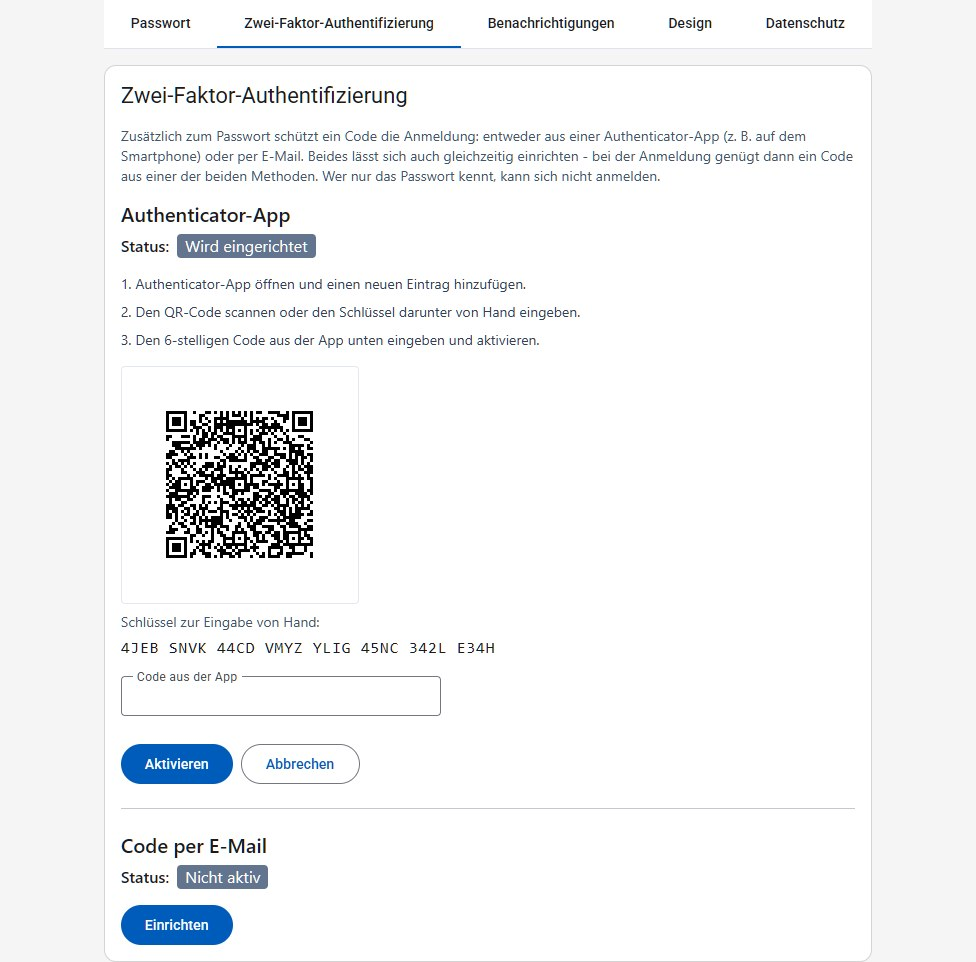
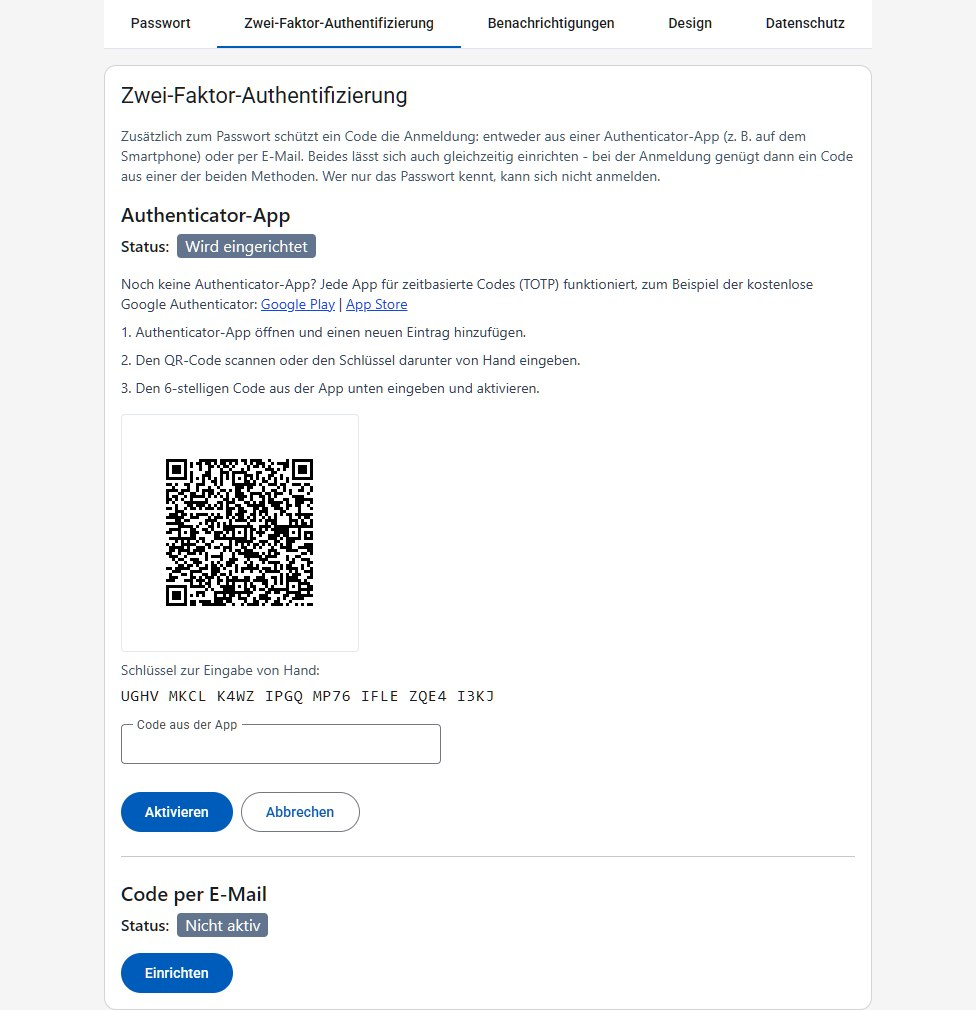
feat(user): link the app stores on the authenticator setup
The setup view of the authenticator app links to Google Authenticator in Google Play and the App Store, and the user guide says so.

Claude-Session: https://claude.ai/code/session_016F6B3dLqo2jphPou1zQNKw

diff --git a/frontend/src/main/webapp/src/app/modules/user/components/user-mfa/user-mfa.component.html b/frontend/src/main/webapp/src/app/modules/user/components/user-mfa/user-mfa.component.html
@@ -41,6 +41,20 @@
           <span testid="mfaTotpStatus" class="px-2 rounded text-white bg-[var(--tafel-severity-neutral)]">Wird eingerichtet</span>
         </div>
 
+        <p class="text-sm text-slate-700 mb-2" testid="mfaStoreHint">
+          Noch keine Authenticator-App? Jede App für zeitbasierte Codes (TOTP) funktioniert, zum Beispiel der kostenlose
+          Google Authenticator:
+          <a testid="mfaStoreLinkGoogle" class="underline text-blue-700"
+             href="https://play.google.com/store/apps/details?id=com.google.android.apps.authenticator2"
+             target="_blank" rel="noopener noreferrer"
+             aria-label="Google Authenticator im Google Play Store (öffnet in neuem Tab)">Google Play</a>
+          |
+          <a testid="mfaStoreLinkApple" class="underline text-blue-700"
+             href="https://apps.apple.com/app/google-authenticator/id388497605"
+             target="_blank" rel="noopener noreferrer"
+             aria-label="Google Authenticator im Apple App Store (öffnet in neuem Tab)">App Store</a>
+        </p>
+
         <ol class="list-decimal list-inside space-y-2 text-sm text-slate-700 mb-4">
           <li>Authenticator-App öffnen und einen neuen Eintrag hinzufügen.</li>
           <li>Den QR-Code scannen oder den Schlüssel darunter von Hand eingeben.</li>

diff --git a/frontend/src/main/webapp/src/app/modules/user/components/user-mfa/user-mfa.component.spec.ts b/frontend/src/main/webapp/src/app/modules/user/components/user-mfa/user-mfa.component.spec.ts
@@ -97,6 +97,23 @@ describe('UserMfaComponent', () => {
     expect(svg!.getAttribute('aria-label')).toContain('QR-Code');
   });
 
+  it('links to the app stores while the app setup is going on, and nowhere else', async () => {
+    const fixture = await create();
+    expect(element(fixture, 'mfaStoreLinkGoogle')).toBeNull();
+
+    fixture.componentInstance.startAppSetup();
+    fixture.detectChanges();
+
+    const google = element(fixture, 'mfaStoreLinkGoogle') as HTMLAnchorElement;
+    const apple = element(fixture, 'mfaStoreLinkApple') as HTMLAnchorElement;
+    expect(google.href).toContain('https://play.google.com/store/apps/details');
+    expect(apple.href).toContain('https://apps.apple.com/');
+    for (const link of [google, apple]) {
+      expect(link.target).toBe('_blank');
+      expect(link.rel).toContain('noopener');
+    }
+  });
+
   it('can back out of the app setup without having switched anything on', async () => {
     const fixture = await create();
     fixture.componentInstance.startAppSetup();

diff --git a/frontend/src/main/webapp/cypress/e2e/mfa.cy.ts b/frontend/src/main/webapp/cypress/e2e/mfa.cy.ts
@@ -97,6 +97,8 @@ describe('Two-factor authentication', () => {
       cy.byTestId('mfaTotpStatus').should('have.text', 'Nicht aktiv');
       cy.byTestId('mfaSetupButton').click();
       cy.byTestId('mfaQrCode').find('svg').should('be.visible');
+      cy.byTestId('mfaStoreLinkGoogle').should('have.attr', 'href').and('contain', 'play.google.com');
+      cy.byTestId('mfaStoreLinkApple').should('have.attr', 'href').and('contain', 'apps.apple.com');
       cy.byTestId('mfaSecret').invoke('text').then(text => {
         const secret = text.replace(/\s/g, '');
         cy.task('totpCode', {secret, stepOffset: -1}).then(code => {

diff --git a/docs/userguide/README.md b/docs/userguide/README.md
@@ -51,7 +51,7 @@ Nach dem Speichern bleibt man mit dem neuen Passwort angemeldet – ein neuerlic
 
 Auf dem Reiter **Zwei-Faktor-Authentifizierung** schützt man die eigene Anmeldung zusätzlich zum Passwort. Dafür gibt es zwei Methoden, die man einzeln oder beide gleichzeitig einrichten kann – bei der Anmeldung genügt der Code einer der beiden. Die Seite zeigt für jede Methode den Status – **Nicht aktiv**, **Wird eingerichtet** oder **Aktiv**.
 
-- **Authenticator-App** (z. B. auf dem Smartphone): Zum Einrichten wählt man **Einrichten**, es erscheint ein QR-Code, den man mit der App scannt; kann die App nicht scannen, gibt man stattdessen den darunter angezeigten Schlüssel von Hand ein. Danach gibt man den 6-stelligen Code aus der App ein und wählt **Aktivieren** – erst mit einem gültigen Code ist die Methode eingeschaltet, womit auch geprüft ist, dass die App richtig eingerichtet wurde. Mit **Abbrechen** verwirft man eine begonnene Einrichtung.
+- **Authenticator-App** (z. B. auf dem Smartphone): Zum Einrichten wählt man **Einrichten**, es erscheint ein QR-Code, den man mit der App scannt (wer noch keine App hat, findet über die Links **Google Play** und **App Store** darüber den kostenlosen Google Authenticator - jede App für zeitbasierte Codes funktioniert); kann die App nicht scannen, gibt man stattdessen den darunter angezeigten Schlüssel von Hand ein. Danach gibt man den 6-stelligen Code aus der App ein und wählt **Aktivieren** – erst mit einem gültigen Code ist die Methode eingeschaltet, womit auch geprüft ist, dass die App richtig eingerichtet wurde. Mit **Abbrechen** verwirft man eine begonnene Einrichtung.
 - **Code per E-Mail**: Zum Einrichten wählt man **Einrichten**; ein 6-stelliger Code wird an die E-Mail-Adresse des Benutzerkontos gesendet (mit **Code erneut senden** lässt er sich nach kurzer Wartezeit neu anfordern). Man gibt ihn ein und wählt **Aktivieren**. Der Code gilt nur kurz und nur einmal. Steht auf dem System kein E-Mail-Versand zur Verfügung, weist die Seite darauf hin, und diese Methode lässt sich nicht einrichten.
 
 ![Zwei-Faktor-Authentifizierung: noch nichts eingerichtet](images/konto-zwei-faktor.jpg)
